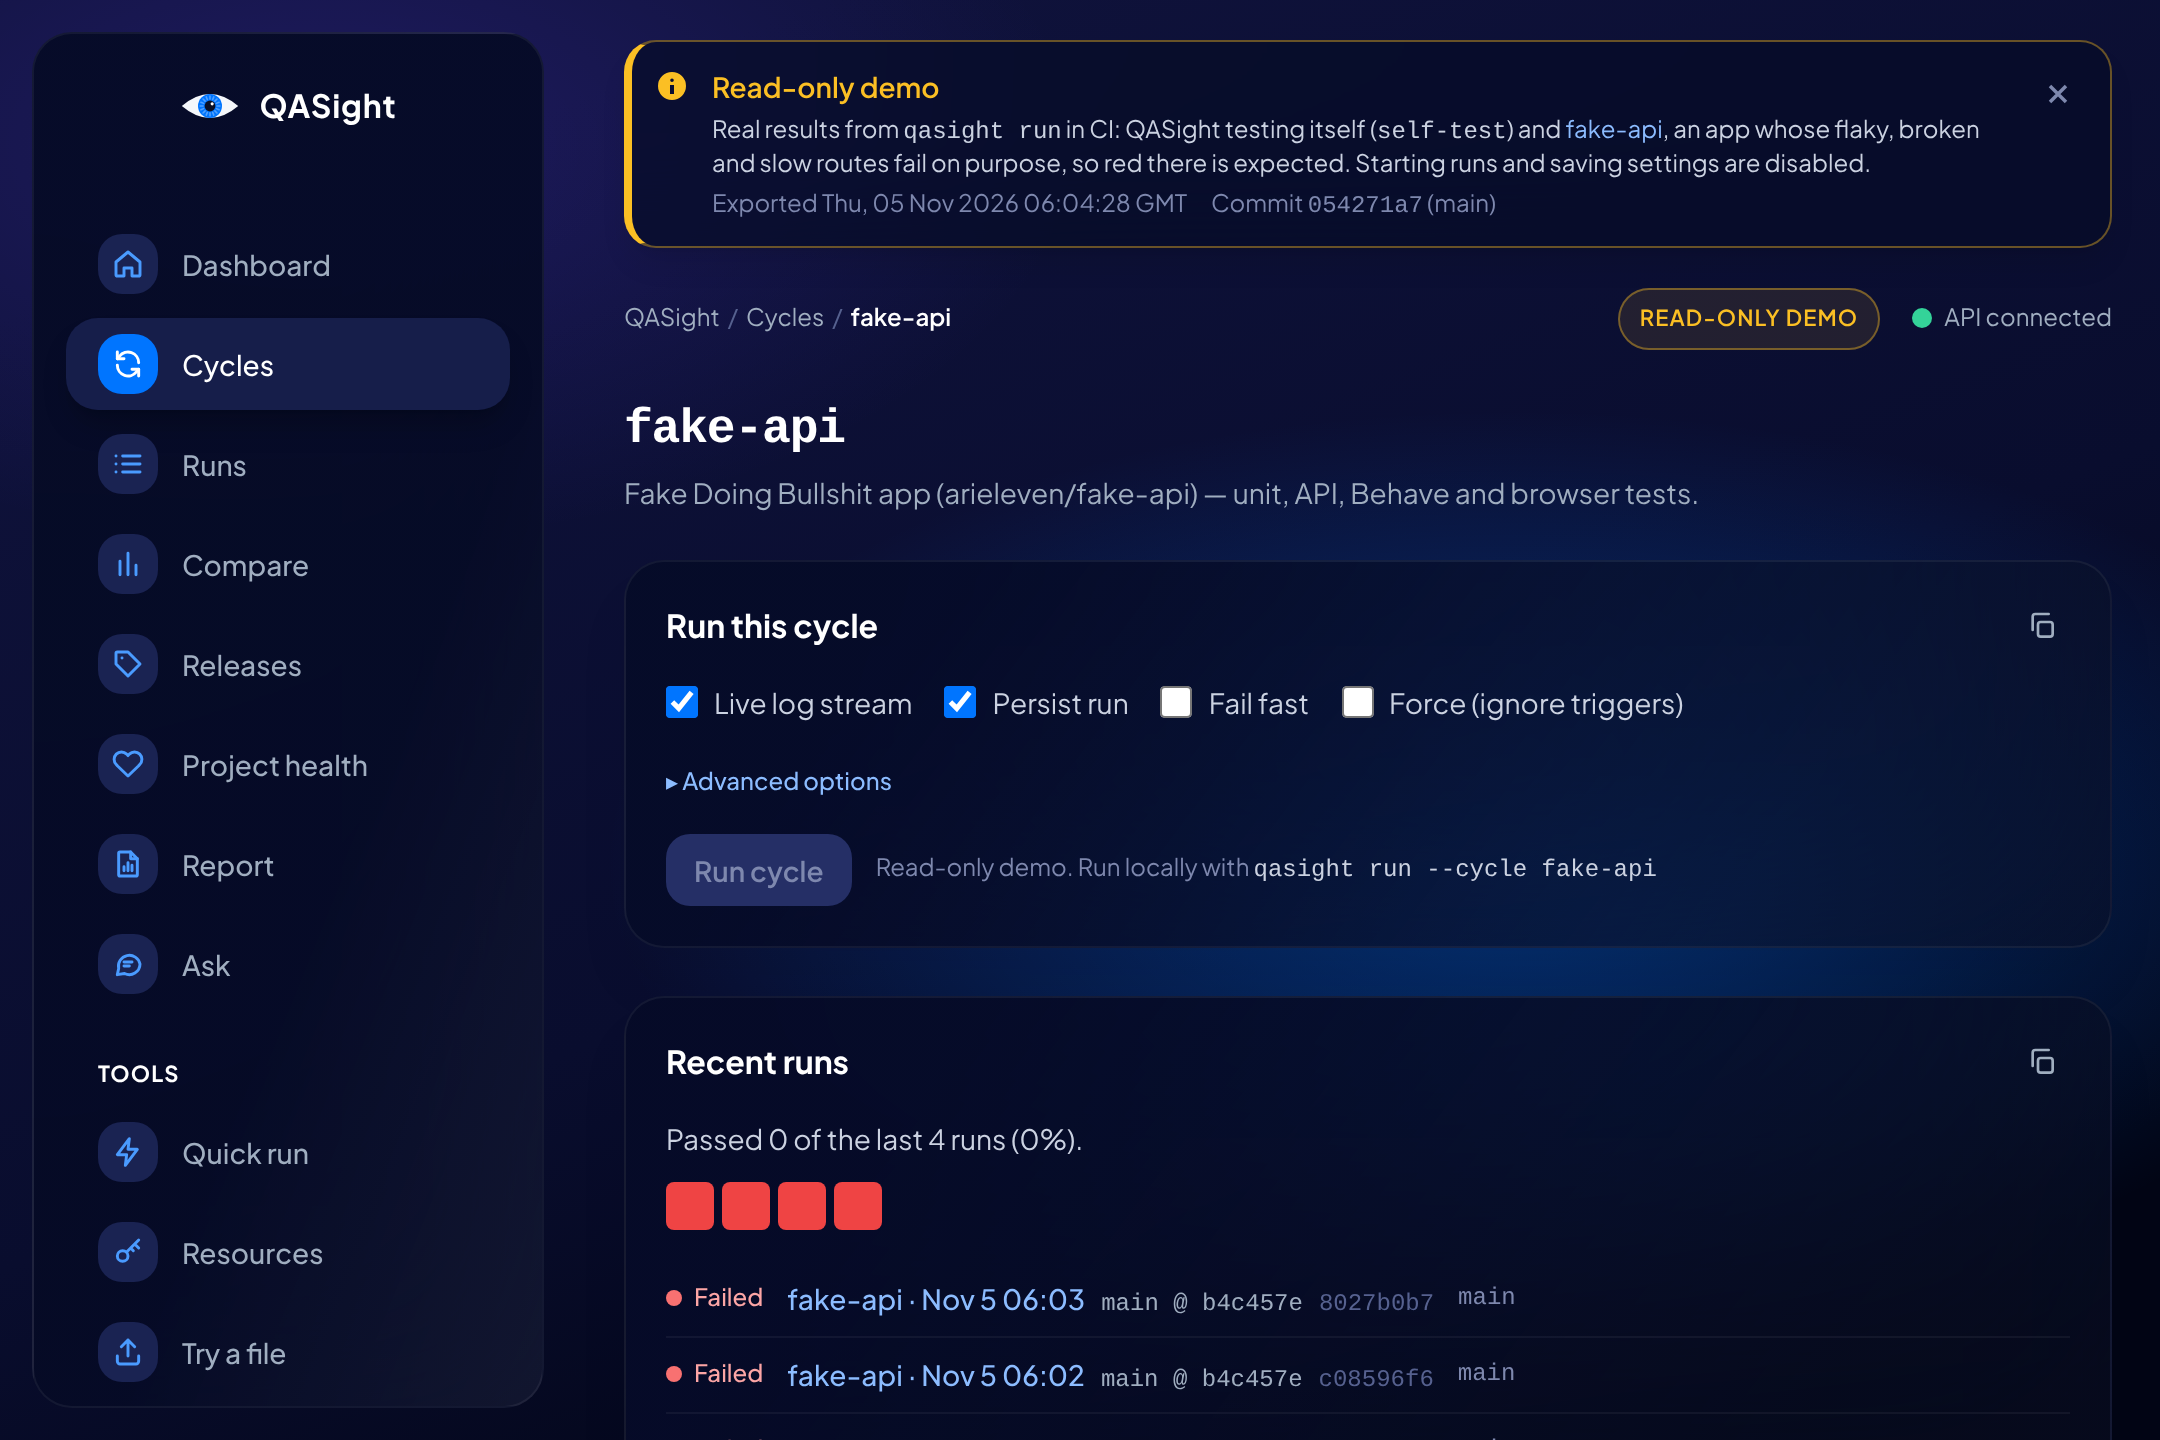
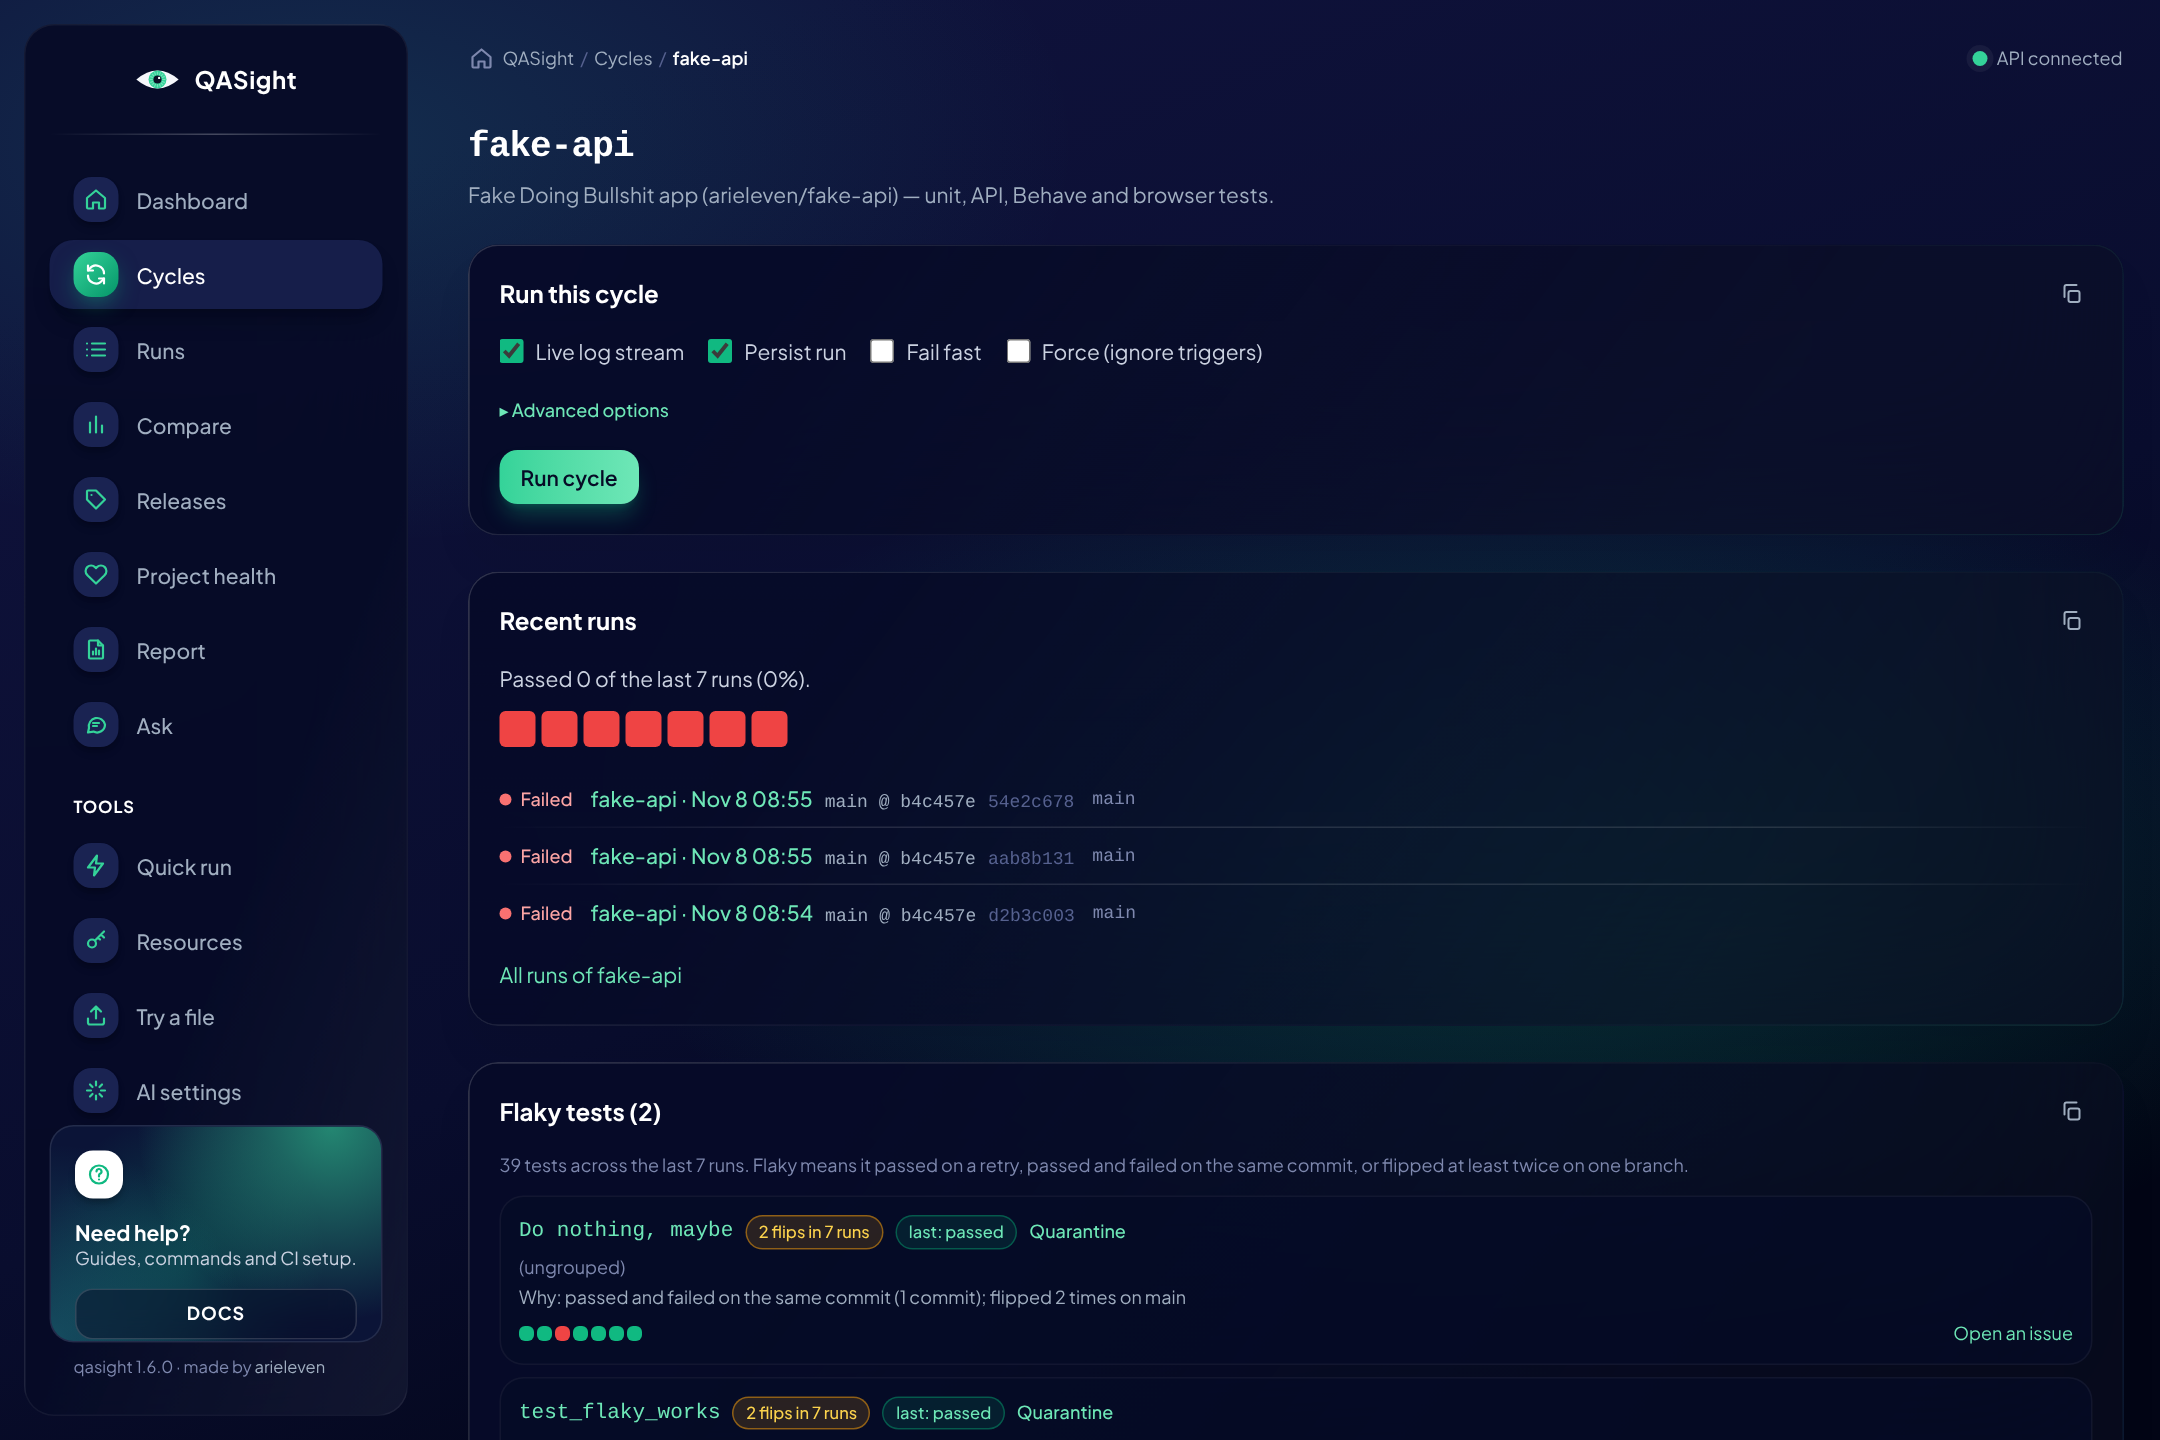
docs: green docs site and new readme screenshots (#308)
The docs site moves from the old deep orange to the eye's green on navy, the README screenshots are retaken from real fake-api runs, and the dashboard eye no longer covers the headline on laptop widths.

Claude-Session: https://claude.ai/code/session_01AsDFGD9SsaZfN5uRk1RBYy

diff --git a/docs/assets/stylesheets/qasight.css b/docs/assets/stylesheets/qasight.css
@@ -1,0 +1,32 @@
+/* QASight colours for the docs site: the eye's green on the app's navy.
+   Values come from frontend/tailwind.config.ts (brand + ink). */
+
+[data-md-color-scheme="default"] {
+  --md-primary-fg-color: #047857;
+  --md-primary-fg-color--light: #10b981;
+  --md-primary-fg-color--dark: #065f46;
+  --md-primary-bg-color: #ffffff;
+  --md-accent-fg-color: #10b981;
+  --md-accent-fg-color--transparent: rgb(16 185 129 / 0.1);
+  --md-typeset-a-color: #047857;
+}
+
+[data-md-color-scheme="slate"] {
+  --md-default-bg-color: #0b1437;
+  --md-default-bg-color--light: #111a45;
+  --md-code-bg-color: #111a45;
+  --md-footer-bg-color: #060b26;
+  --md-footer-bg-color--dark: #060b26;
+  --md-primary-fg-color: #060b26;
+  --md-primary-fg-color--light: #111a45;
+  --md-primary-fg-color--dark: #060b26;
+  --md-primary-bg-color: #f0f3fa;
+  --md-accent-fg-color: #34d399;
+  --md-accent-fg-color--transparent: rgb(52 211 153 / 0.1);
+  --md-typeset-a-color: #34d399;
+}
+
+/* The header and tabs in the dark scheme get a hairline instead of a shadow. */
+[data-md-color-scheme="slate"] .md-header {
+  border-bottom: 1px solid rgb(255 255 255 / 0.06);
+}

diff --git a/frontend/src/features/dashboard/DashboardPage.tsx b/frontend/src/features/dashboard/DashboardPage.tsx
@@ -303,7 +303,7 @@ function LatestRunHero({ data, latest }: { data: DashboardOverviewResponse; late
                 : "radial-gradient(circle at 85% 40%, rgb(45 212 191 / 0.18), transparent 55%)"
         }}
       />
-      <IrisArt tone={tone} slices={slices} className="pointer-events-none absolute -right-24 -top-20 h-[230px] w-[260px] opacity-35 sm:-right-6 sm:-top-6 sm:h-[300px] sm:w-[340px] sm:opacity-90" />
+      <IrisArt tone={tone} slices={slices} className="pointer-events-none absolute -right-24 -top-20 h-[230px] w-[260px] opacity-35 sm:-right-6 sm:-top-6 sm:h-[300px] sm:w-[340px] sm:opacity-90 lg:-right-24 lg:-top-20 lg:h-[230px] lg:w-[260px] lg:opacity-50 wide:-right-6 wide:-top-6 wide:h-[300px] wide:w-[340px] wide:opacity-90" />
       <div className="relative max-w-md">
         <p className="flex items-center gap-2 text-xs font-semibold uppercase tracking-wider text-ink-300">
           Latest run

diff --git a/frontend/tailwind.config.ts b/frontend/tailwind.config.ts
@@ -4,6 +4,8 @@ export default {
   content: ["./index.html", "./src/**/*.{ts,tsx}"],
   theme: {
     extend: {
+      // Wide enough for the dashboard hero to show the eye full size beside its text.
+      screens: { wide: "87.5rem" },
       fontFamily: {
         sans: ['"Plus Jakarta Sans"', "ui-sans-serif", "system-ui", "sans-serif"]
       },

diff --git a/README.md b/README.md
@@ -19,13 +19,13 @@ _Formerly Testosterone (`testo-core`). Old commands, imports and config files ke
 
 **Live demo: <https://arieleven.github.io/qasight/>** · **Docs: <https://arieleven.github.io/qasight/docs/>**
 
-[![Dashboard: what needs attention first (the red fake-api cycle), then project health, failed, passed and duration cards for the latest run compared with the one before](docs/assets/screenshots/dashboard.png)](https://arieleven.github.io/qasight/)
+[![Dashboard: the latest fake-api run in a hero card with QASight's eye drawn as a pie of its results, the project health gauge, what needs attention first, and a bar per recent run](docs/assets/screenshots/dashboard.png)](https://arieleven.github.io/qasight/)
 
 | Run detail (failed fake-api run) | Compare (two fake-api runs) |
 |---|---|
 | [![Run detail of a failed fake-api run: summary, report links, test pyramid and per-stage health](docs/assets/screenshots/run-detail-failed-fake-api.png)](docs/assets/screenshots/run-detail-failed-fake-api.png) | [![Compare view: regressions and improvements, outcome mix, and reliability and performance deltas between two fake-api runs](docs/assets/screenshots/compare-fake-api-runs.png)](docs/assets/screenshots/compare-fake-api-runs.png) |
 | **Cycle page with its flaky tests** | **Dashboard on a phone** |
-| [![fake-api cycle page: run the cycle from the browser, the flaky test it found with its pass and fail history, and the cycle's stages](docs/assets/screenshots/cycle-detail-fake-api.png)](docs/assets/screenshots/cycle-detail-fake-api.png) | <a href="docs/assets/screenshots/dashboard-phone.png"><img src="docs/assets/screenshots/dashboard-phone.png" width="200" alt="Dashboard at phone width: top bar with menu and stacked health, failed, pass count and duration cards"></a> |
+| [![fake-api cycle page: run the cycle from the browser, the flaky test it found with its pass and fail history, and the cycle's stages](docs/assets/screenshots/cycle-detail-fake-api.png)](docs/assets/screenshots/cycle-detail-fake-api.png) | <a href="docs/assets/screenshots/dashboard-phone.png"><img src="docs/assets/screenshots/dashboard-phone.png" width="200" alt="Dashboard at phone width: top bar with menu, the latest run card with its failed, passed and duration numbers, and the project health gauge"></a> |
 
 What you're looking at: QASight testing itself (its own test suite) and `fake-api`, a
 small app whose routes fail on purpose. CI runs both cycles and publishes the real results as a

diff --git a/docs/Specs & ADRs/UI Polish - 2026-11-08.md b/docs/Specs & ADRs/UI Polish - 2026-11-08.md
@@ -58,7 +58,9 @@ Taltal asked about the palette and the eye. The electric blue `#0075ff` was the 
 - The accent shares a family with "passed". Failures stay red and warnings amber, so the signal still reads.
 - **Pie iris.** `IrisArt` takes `slices`: the iris becomes a ring split by the latest run's passed, failed, broken and skipped tests (the same green, red, amber and grey), each slice with its count on hover and a tiny minimum so a single broken test still shows. After Taltal's review the slices fade into each other (drawn as thin wedges, since SVG has no conic gradient) and the ring is shaded with a top-left light and a dark curve into the pupil, so it reads as a rounded 3D iris instead of a flat chart. Taltal then chose to drop the run-coloured rim and the white fibres on the pie, so only the blended results show. A legend under the hero lists the counts. The counts come from `GET /api/v1/runs` (the dashboard overview only has passed and failed); no API change.
 
-Not changed: the printed and exported report (white paper, its own colours), the docs site theme and the README screenshots, which still show blue until they are retaken.
+Not changed: the printed and exported report (white paper, its own colours).
+
+Follow-up the same day: the docs site, which still wore the Testosterone-era deep orange and amber, now uses the same green on navy (`docs/assets/stylesheets/qasight.css`, Material's `custom` palette: green header in the light scheme, the app's navy in the dark one), and the README screenshots are retaken with the new dashboard from seven real fake-api runs. Retaking them showed the eye covering the hero's headline on laptop widths (1024 to 1400 px), where the hero column is narrow; there it now sits small in the corner like on phones, and shows full size from a new `wide` breakpoint (87.5rem, in `tailwind.config.ts`). The UI walkthrough GIF in the README is still the old look.
 
 Not taken from the reference: the photo hero card, the settings button, avatars and the RTL page, which are template demo content with no QASight meaning.
 

diff --git a/CHANGELOG.md b/CHANGELOG.md
@@ -9,11 +9,14 @@ This project adheres to [Semantic Versioning](https://semver.org/spec/v2.0.0.htm
 ## [Unreleased]
 
 ### Changed
-- New accent colour: the web UI's blue is now the green of the logo's eye (navy stays), and primary buttons use dark text on green for contrast
+- New accent colour: the web UI's blue is now the green of the logo's eye (navy stays), and primary buttons use dark text on green for contrast. The docs site follows: green on white in light mode, green on the app's navy in dark mode (it was deep orange)
 - Dashboard redesign: a hero card for the latest run (pass rate in big type, three small stats, and QASight's eye drawn as a glowing iris split like a pie into the run's passed, failed, broken and skipped tests), a big gauge for project health, uneven columns instead of rows of equal boxes, and a bar per recent run (pass rate and result) on Recent runs
 - Web UI polish: cards have a soft light edge, the Last 7 days numbers sit in darker tiles, list rows are split by fading lines, the desktop top bar sticks and turns to glass as you scroll, the sidebar has a "Need help?" card, every page ends with Docs, GitHub and Report an issue links, and the version under the sidebar says "made by arieleven" with a link to the author's GitHub. See `docs/Specs & ADRs/UI Polish - 2026-11-08.md`
 - Tidier pages: Needs attention and Recent runs on the dashboard open and close on click, and long lists (recent runs, failing, flaky and broken tests, release tests) show 3 rows with "Show all". The run page's Test mix, Details and Artifacts and the cycle page's Stages start closed. A card you close stays closed in that browser
 - The live demo shows made-up examples, each marked "Fake example for the live demo", where it has nothing of its own: an AI failure summary per failed run, an AI review, an Ask conversation and two pretend releases. Only the demo export does this; `qasight export-site` does not
+
+### Fixed
+- On laptop-width screens the dashboard's eye art no longer covers the latest run's headline
 
 ## [1.6.0] - 2026-11-05
 
